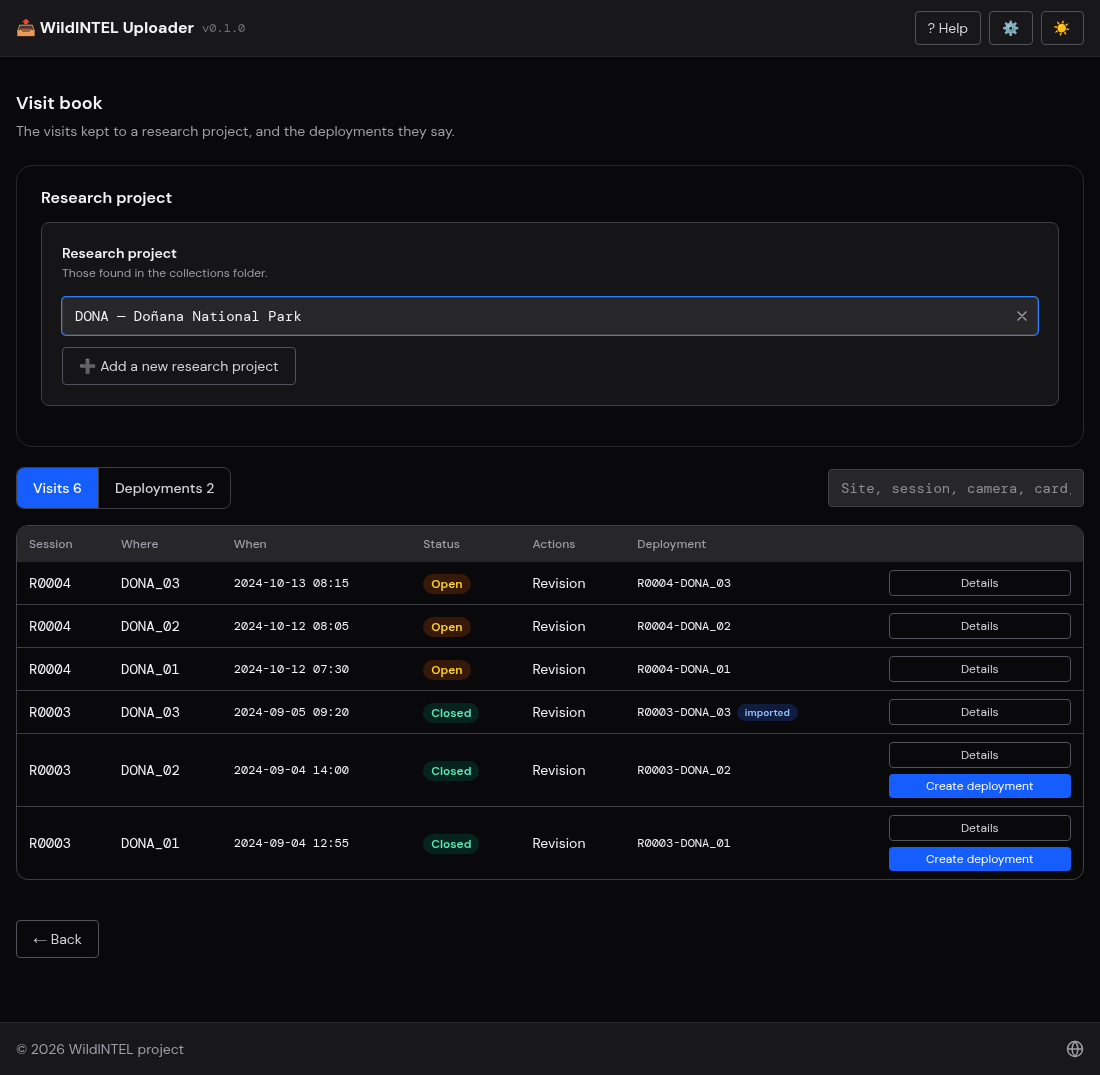
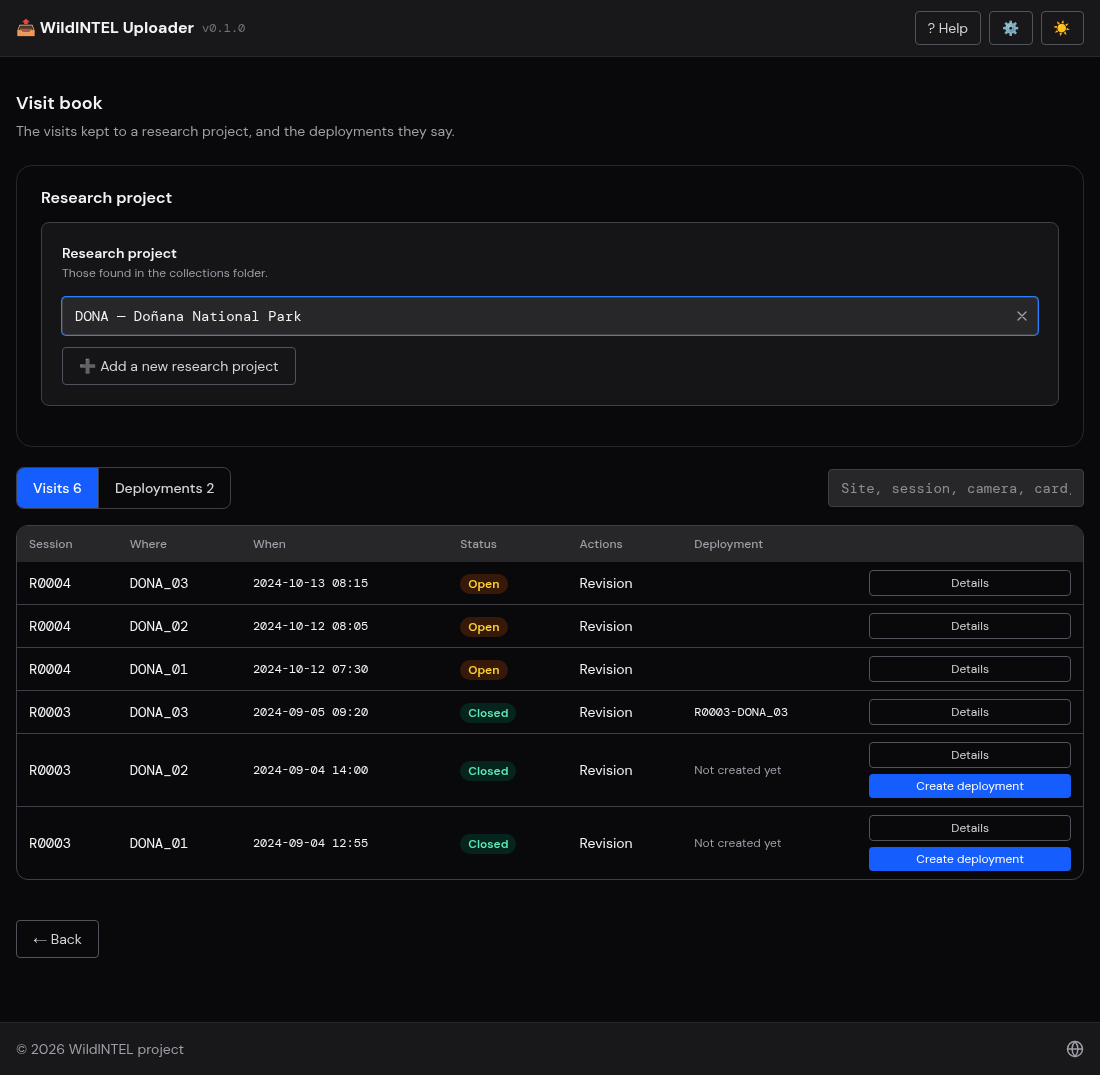
Visit book: a deployment's id appears only once it is created and its images imported; a closed visit with none says so

diff --git a/frontend/src/pages/VisitBookPage.tsx b/frontend/src/pages/VisitBookPage.tsx
@@ -57,7 +57,7 @@ export default function VisitBookPage({ onBack, onImportImages }: Props) {
 
   const needle = filter.trim().toLowerCase()
   const shown = (visits ?? [])
-    .filter((v) => !needle || `${v.location_id} ${v.session} ${v.camera_id ?? ''} ${v.sd ?? ''} ${v.trappers ?? ''} ${v.actions.join(' ')} ${v.deployment ?? ''} ${v.deployment_status ?? ''}`.toLowerCase().includes(needle))
+    .filter((v) => !needle || `${v.location_id} ${v.session} ${v.camera_id ?? ''} ${v.sd ?? ''} ${v.trappers ?? ''} ${v.actions.join(' ')} ${v.deployment_id ?? ''} ${v.deployment_status ?? ''}`.toLowerCase().includes(needle))
     .sort((a, b) => `${b.date}T${b.time}`.localeCompare(`${a.date}T${a.time}`))
 
   return (
@@ -106,7 +106,11 @@ export default function VisitBookPage({ onBack, onImportImages }: Props) {
                                 : <span className="text-zinc-400">—</span>}
                             </td>
                             <td className="px-3 py-2">{v.actions.join(' + ')}</td>
-                            <td className="px-3 py-2 font-mono text-xs">{v.deployment ?? ''}{v.deployment_id ? <span className="ml-1.5 rounded-full bg-blue-100 dark:bg-blue-900/40 px-2 py-0.5 text-[10px] font-semibold text-blue-700 dark:text-blue-300 font-sans">imported</span> : null}</td>
+                            <td className="px-3 py-2 font-mono text-xs">
+                              {v.deployment_id
+                                ? v.deployment_id
+                                : v.deployment_status === 'closed' ? <span className="font-sans text-zinc-400">Not created yet</span> : null}
+                            </td>
                             <td className="px-3 py-2 whitespace-nowrap">
                               <div className="flex flex-col gap-1.5 items-stretch">
                                 <button type="button" className={`${btnOutline} !px-2.5 !py-1 !text-xs`} aria-expanded={opened === key} aria-label={`Details of the visit ${v.session} to ${v.location_id}`} onClick={() => setOpened(opened === key ? null : key)}>Details</button>

diff --git a/frontend/src/pages/VisitBookPage.test.tsx b/frontend/src/pages/VisitBookPage.test.tsx
@@ -46,14 +46,16 @@ describe('VisitBookPage', () => {
     expect(mockedApi.visitBook).toHaveBeenCalledWith('TATR')
   })
 
-  it('has the session first, then where and when, the status of the visit (closed or open) and its deployment', async () => {
+  it('has the session first, then where and when, the status of the visit (closed or open), the actions and the deployment — only once it is created, with its images imported', async () => {
     await pickProject()
 
     const table = await screen.findByRole('table', { name: 'Visits' })
     expect(within(table).getAllByRole('columnheader').slice(0, 6).map((h) => h.textContent)).toEqual(['Session', 'Where', 'When', 'Status', 'Actions', 'Deployment'])
     const [first, second] = within(table).getAllByRole('row').slice(1)
-    expect(within(first).getAllByRole('cell').slice(0, 6).map((c) => c.textContent)).toEqual(['R0004', 'TATR_0001', '2024-10-12 09:00', 'Open', 'Revision', 'R0004-TATR_0001'])
-    expect(within(second).getAllByRole('cell').slice(0, 6).map((c) => c.textContent)).toEqual(['R0003', 'TATR_0001', '2024-09-04 09:00', 'Closed', 'Installation', 'R0003-TATR_0001'])
+    expect(within(first).getAllByRole('cell').slice(0, 6).map((c) => c.textContent)).toEqual(['R0004', 'TATR_0001', '2024-10-12 09:00', 'Open', 'Revision', ''])
+    // the id a deployment would have is not shown: it appears when the deployment is created and its images imported
+    expect(within(screen.getByRole('table', { name: 'Visits' })).getByText('R0003-TATR_0002')).toBeInTheDocument()
+    expect(within(second).getAllByRole('cell').slice(0, 6).map((c) => c.textContent)).toEqual(['R0003', 'TATR_0001', '2024-09-04 09:00', 'Closed', 'Installation', 'Not created yet'])
   })
 
   it('shows the details of a visit, and creates the deployment of a closed visit that has none yet', async () => {

diff --git a/CHANGELOG.md b/CHANGELOG.md
@@ -21,7 +21,7 @@ adheres to [Semantic Versioning](https://semver.org/spec/v2.0.0.html).
 - **Locations from the file itself**: the sites of a file that are not locations come with the coordinates of their first visit, and **Add the N sites with coordinates as locations** keeps them all at once (the ones that look like a misprint are left for the user).
 - **Manage visits** is the task of the menu (it was *Register visits*): it offers **Register visits** and **Show the visit book** — the visits kept to a research project (newest first, with a filter and the deployment each closed) and, in a second tab, the
   deployments they say (closed, and the ones whose camera is still out) with the button to write the logs of all the collections again.
-- **The visit book** (`/api/visits/book`) lists a visit as *Session · Where · When · Status (open or closed) · Deployment*, then its actions, camera, card, photos and who went; **Details** shows everything the visit says and **Create deployment** (only on a closed visit with no deployment imported yet) opens Import deployment with that visit chosen.
+- **The visit book** (`/api/visits/book`) lists a visit as *Session · Where · When · Status (open or closed) · Actions · Deployment* (the deployment's id only once it is created and its images imported), then its actions, camera, card, photos and who went; **Details** shows everything the visit says and **Create deployment** (only on a closed visit with no deployment imported yet) opens Import deployment with that visit chosen.
 - **The cameras and the SD cards are kept in the folder of their research project** (`<research project>/cameras.json` and `sd_cards.json`, beside `locations.json` and `visits.json`), so they travel with its collections; only the trappers stay in
   `settings.toml`. `GET /api/settings` gives the ones of every research project and `PUT /api/settings` saves each project's list in its folder — a camera or a card needs its research project (`422` otherwise). Those kept in `settings.toml`
   until now are moved when the settings are read (one that was free for any goes to each research project; one of a project that is not in the collections folder stays in the settings).

diff --git a/docs/user-manual-web.md b/docs/user-manual-web.md
@@ -214,7 +214,7 @@ Choose a research project and the book shows, in two tabs, the **visits** kept t
 **Write the logs of all the collections again**.
 
 A visit is one row: its **Session**, **Where** (the site), **When**, its **Status** — *Closed* once a later visit collected the card it left, *Open* while that camera is still out, nothing for a visit that left no camera — the **Actions**
-and the **Deployment** it started. **Details** opens everything the visit says (the camera, the card, the photos, who went, the camera model, the details of the camera and the site, the notes, its instant in UTC…). **Create deployment** appears on a *closed* visit that has no deployment imported yet:
+and the **Deployment** — its id appears only once the deployment is created and its images imported; until then a closed visit says *Not created yet* and an open one shows nothing. **Details** opens everything the visit says (the camera, the card, the photos, who went, the camera model, the details of the camera and the site, the notes, its instant in UTC…). **Create deployment** appears on a *closed* visit that has no deployment imported yet:
 it opens [Import deployment](#6-import-a-deployment) with the research project and that visit already chosen.
 
 ### Register visits
